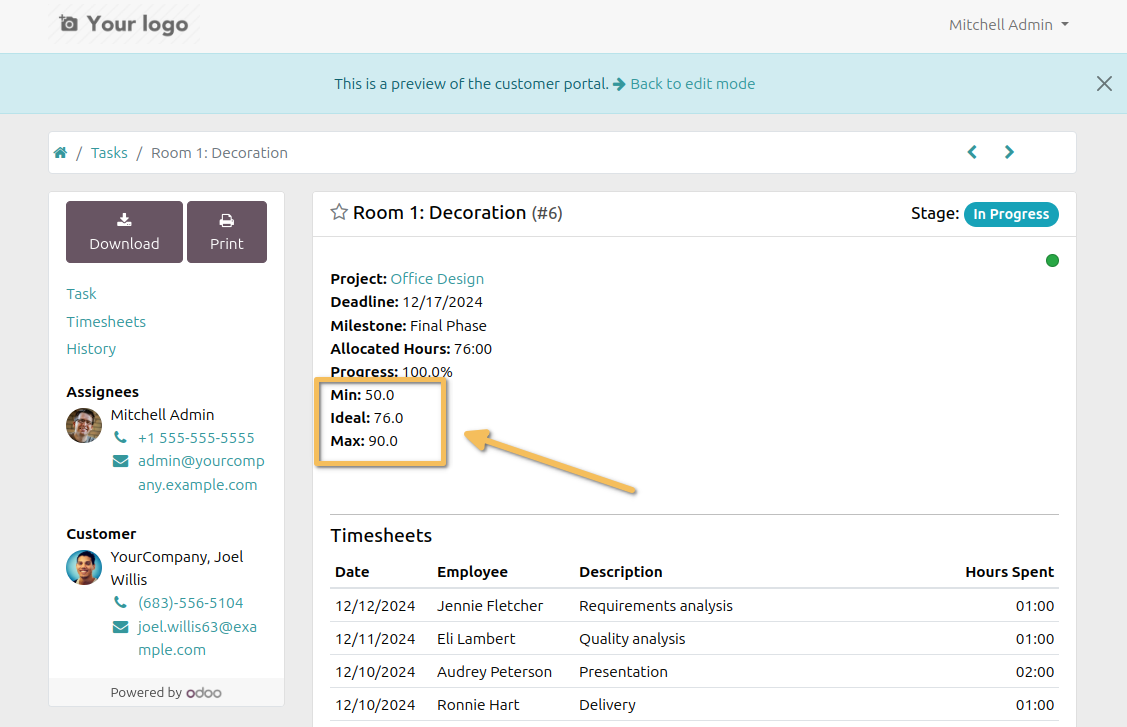
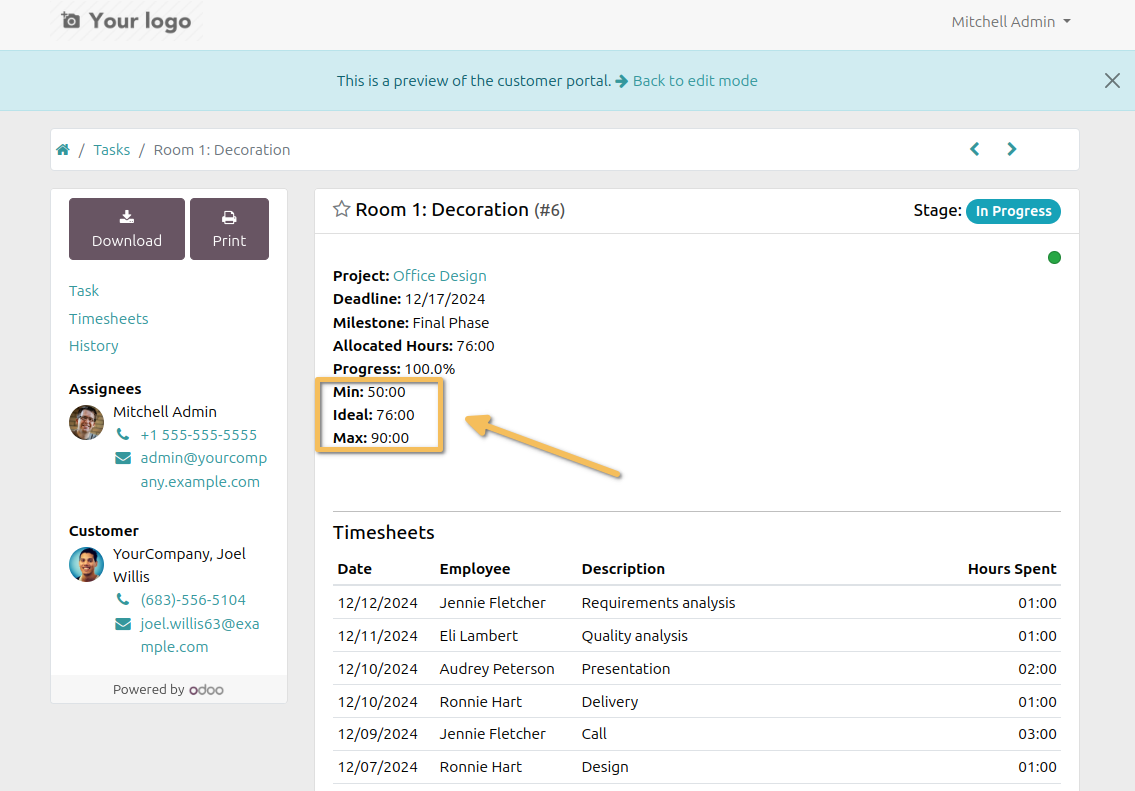
TA#72205 [16.0][MIG][CHG][IMP] project_time_range : widget & screenshots & code quality

diff --git a/project_time_range/__manifest__.py b/project_time_range/__manifest__.py
@@ -11,6 +11,10 @@
     "category": "Project",
     "summary": "Add fields Min and Max on project tasks.",
     "depends": ["hr_timesheet"],
-    "data": ["views/portal.xml", "views/project_task.xml", "views/project_project.xml"],
+    "data": [
+        "views/project_task_portal_template.xml",
+        "views/project_task_views.xml",
+        "views/project_project_views.xml",
+    ],
     "installable": True,
 }
